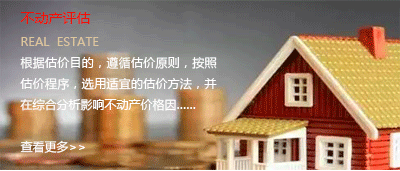
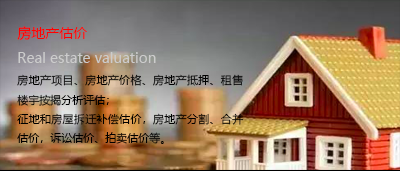
资产评估主营业务修改完成

diff --git a/r/cms/zcpg/zcpg/css/news-zyyw.css b/r/cms/zcpg/zcpg/css/news-zyyw.css
@@ -82,18 +82,52 @@ img{border:0;vertical-align:middle;-ms-interpolation-mode:bicubic}
 #main .responsibility-items a>img{width: 100%;display: block;}
 #main .responsibility-items .item-a {
 	position: absolute;
-	left: 406px;
+	left: 400px;
 	top: 0;
 	width: 200px;
 	height: 359px;
 	background: url(../imgs/p_0_3.jpg) no-repeat 0 0;
 	background-size: cover;
 }
-#main .responsibility-items .item3 {
+/*#main .responsibility-items .item1 {
 	position: absolute;
 	left: 0;
 	top: 0;
 	width: 400px;
+	height: 176px;
+	background: url(../imgs/p_0_1_new.jpg) no-repeat 0 0;
+	border-bottom: 2px solid #ecebe9;
+	background-color: #FEFDFB;
+}*/
+/*#main .responsibility-items .item1 {
+	position: absolute;
+	left: 0;
+	top: 0;
+	width: 446px;
+	background: #f4eeda url(../imgs/p_0_4-2.jpg) no-repeat;
+	height: 362px;
+}
+#main .responsibility-items .item2 {
+	position: absolute;
+	right: 0;
+	top: 176px;
+	width: 390px;
+	height: 231px;
+	background: url(../imgs/p_0_2_new.jpg) no-repeat 0 16px;
+}
+#main .responsibility-items .item3 {
+	position: absolute;
+	right: 0;
+	top: 0;
+	width: 390px;
+	height: 176px;
+	background: url(../imgs/p_0_1_new.jpg) no-repeat 0 0;
+}*/
+#main .responsibility-items .item1 {
+	position: absolute;
+	left: 0;
+	top: 0;
+	width: 390px;
 	height: 176px;
 	background: url(../imgs/p_0_1_new.jpg) no-repeat 0 0;
 	border-bottom: 2px solid #ecebe9;
@@ -103,17 +137,17 @@ img{border:0;vertical-align:middle;-ms-interpolation-mode:bicubic}
 	position: absolute;
 	left: 0;
 	top: 176px;
-	width: 400px;
+	width: 390px;
 	height: 231px;
 	background: url(../imgs/p_0_2_new.jpg) no-repeat 0 16px;
 }
-#main .responsibility-items .item1 {
+#main .responsibility-items .item3 {
 	position: absolute;
 	right: 0;
 	top: 0;
 	width: 446px;
-	background: #f4eeda url(../imgs/p_0_4-2.jpg) no-repeat;
-	height: 128px;
+	height: 362px;
+	background: url(../imgs/p_0_4-2.jpg) no-repeat 0 0;
 }
 #main .responsibility-items .item4 {
 	position: absolute;
